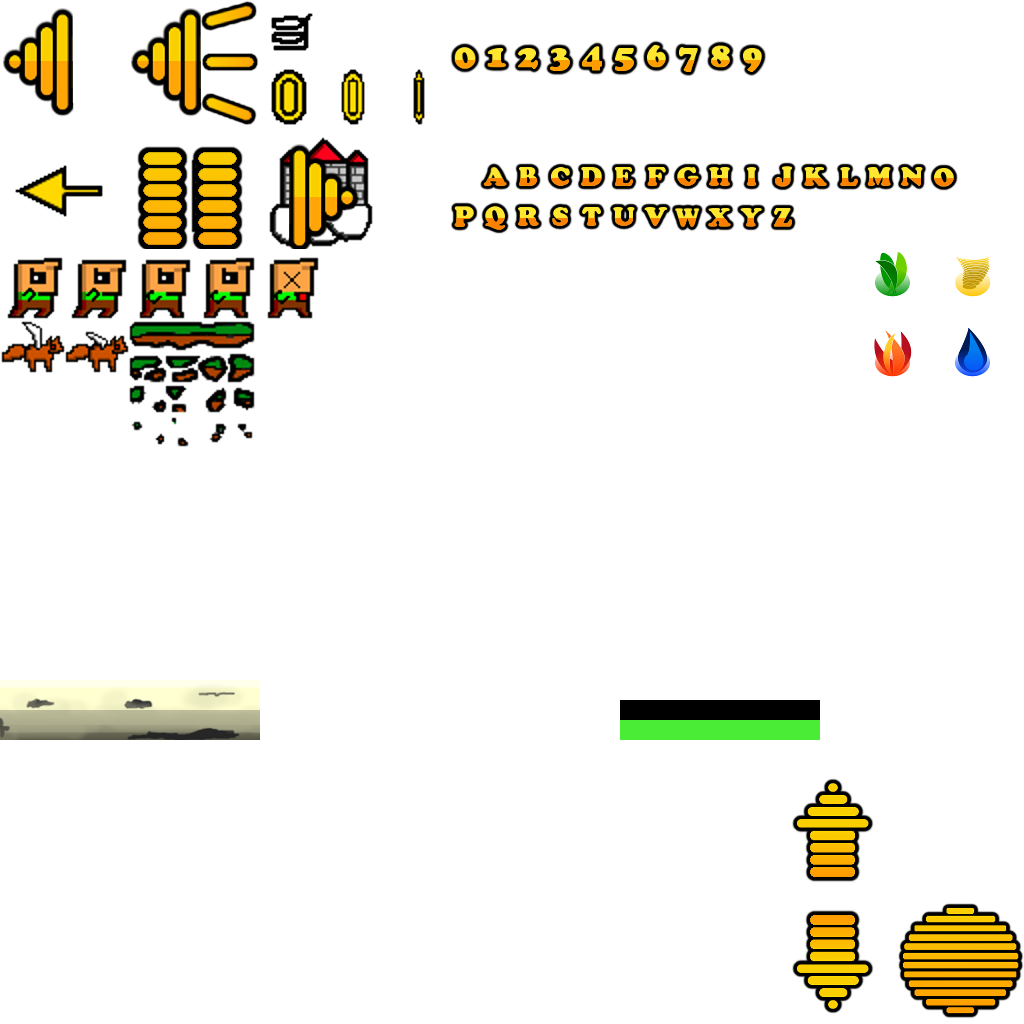
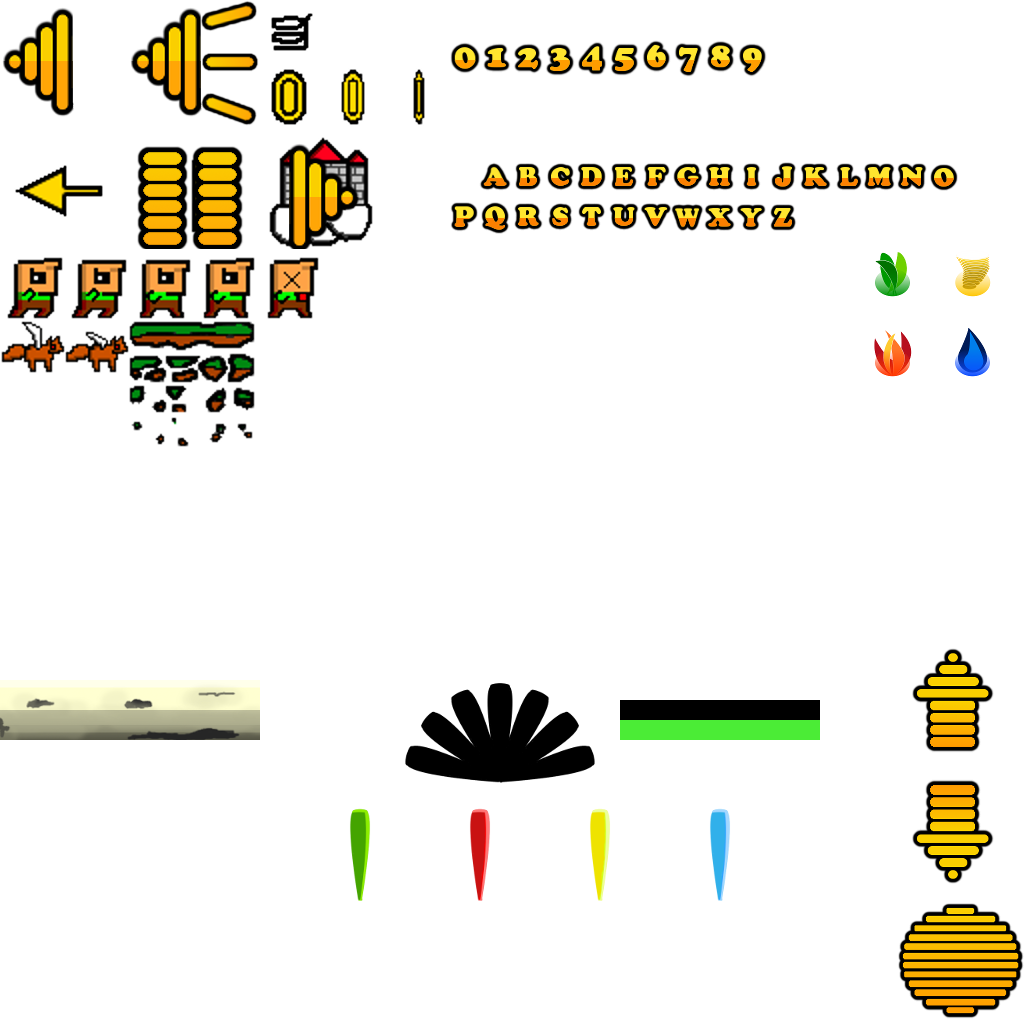
9 dec Börjat rita ut elementindikator i spelet

diff --git a/app/src/main/java/com/l2minigames/wanderfulworld/Assets.java b/app/src/main/java/com/l2minigames/wanderfulworld/Assets.java
@@ -29,6 +29,11 @@ public class Assets {
     public static TextureRegion itemsFire;
     public static TextureRegion itemsAir;
     public static TextureRegion itemsWater;
+    public static TextureRegion itemsElementIndicator;
+    public static TextureRegion itemsElementIndicatorEarth;
+    public static TextureRegion itemsElementIndicatorFire;
+    public static TextureRegion itemsElementIndicatorAir;
+    public static TextureRegion itemsElementIndicatorWater;
     public static TextureRegion mainMenu;
     public static TextureRegion pauseMenu;
     public static TextureRegion ready;
@@ -77,6 +82,11 @@ public class Assets {
         itemsFire = new TextureRegion(items, 860, 320, 64, 64);
         itemsAir = new TextureRegion(items, 940, 240, 64, 64);
         itemsWater = new TextureRegion(items, 940, 320, 64, 64);
+        itemsElementIndicator = new TextureRegion(items, 400, 680, 220, 100);
+        itemsElementIndicatorEarth = new TextureRegion(items, 260, 800, 200, 200);
+        itemsElementIndicatorFire = new TextureRegion(items, 380, 800, 200, 200);
+        itemsElementIndicatorAir = new TextureRegion(items, 500, 800, 200, 200);
+        itemsElementIndicatorWater = new TextureRegion(items, 620, 800, 200, 200);
         mainMenu = new TextureRegion(items, 0, 224, 300, 110);
         pauseMenu = new TextureRegion(items, 224, 128, 192, 96);
         ready = new TextureRegion(items, 320, 224, 192, 32);

diff --git a/app/src/main/java/com/l2minigames/wanderfulworld/WorldRenderer.java b/app/src/main/java/com/l2minigames/wanderfulworld/WorldRenderer.java
@@ -111,10 +111,26 @@ public class WorldRenderer {
         batcher.drawSprite(marginLeftAI-differenceAI, 29, actualsizeAI, 0.5f, Assets.itemsHPBarGreen);
 
         ///Elementpowers
+
         batcher.drawSprite(7.7f, 29, 1.5f, 1.5f, Assets.itemsEarth);
         batcher.drawSprite(9.2f, 29, 1.5f, 1.5f, Assets.itemsFire);
         batcher.drawSprite(10.7f, 29, 1.5f, 1.5f, Assets.itemsAir);
         batcher.drawSprite(12.2f, 29, 1.5f, 1.5f, Assets.itemsWater);
+
+        ///Elementindicators
+
+        ///Earth
+        batcher.drawSprite(3f, 27, 2.2f, 1f, Assets.itemsElementIndicator);
+        batcher.drawSprite(3f-0.1f, 27-0.5f, 2f, 2f, -75f, Assets.itemsElementIndicatorEarth);
+        batcher.drawSprite(3f-0.1f, 27-0.5f, 2f, 2f, -50f, Assets.itemsElementIndicatorEarth);
+        batcher.drawSprite(3f-0.1f, 27-0.5f, 2f, 2f, -25f, Assets.itemsElementIndicatorEarth);
+        batcher.drawSprite(3f-0.1f, 27-0.5f, 2f, 2f, Assets.itemsElementIndicatorEarth);
+        ///Fire
+        batcher.drawSprite(7.5f, 27, 2.2f, 1f, Assets.itemsElementIndicator);
+        ///Air
+        batcher.drawSprite(12f, 27, 2.2f, 1f, Assets.itemsElementIndicator);
+        ///Water
+        batcher.drawSprite(16.5f, 27, 2.2f, 1f, Assets.itemsElementIndicator);
 
 
 
